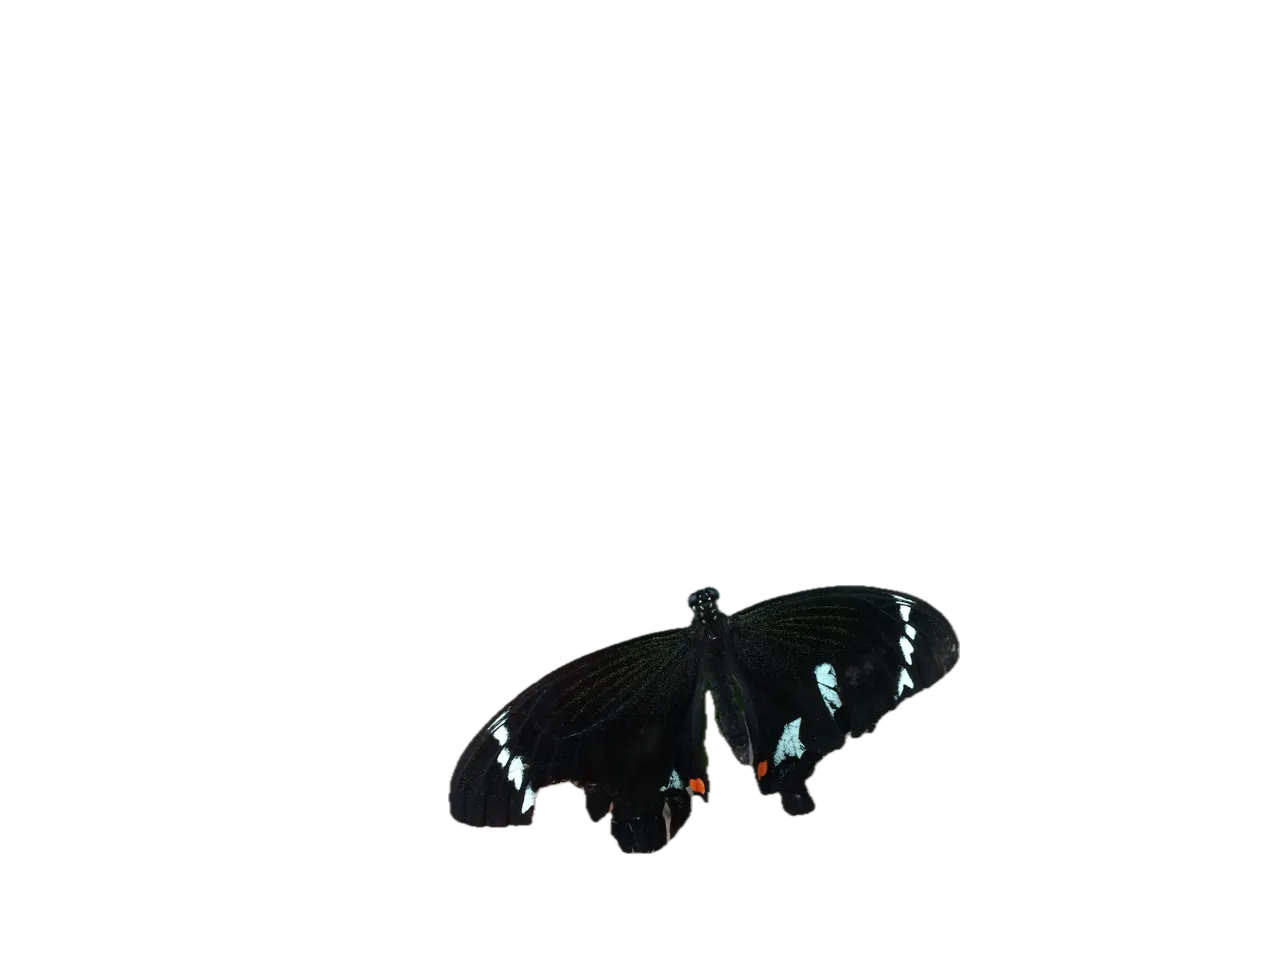
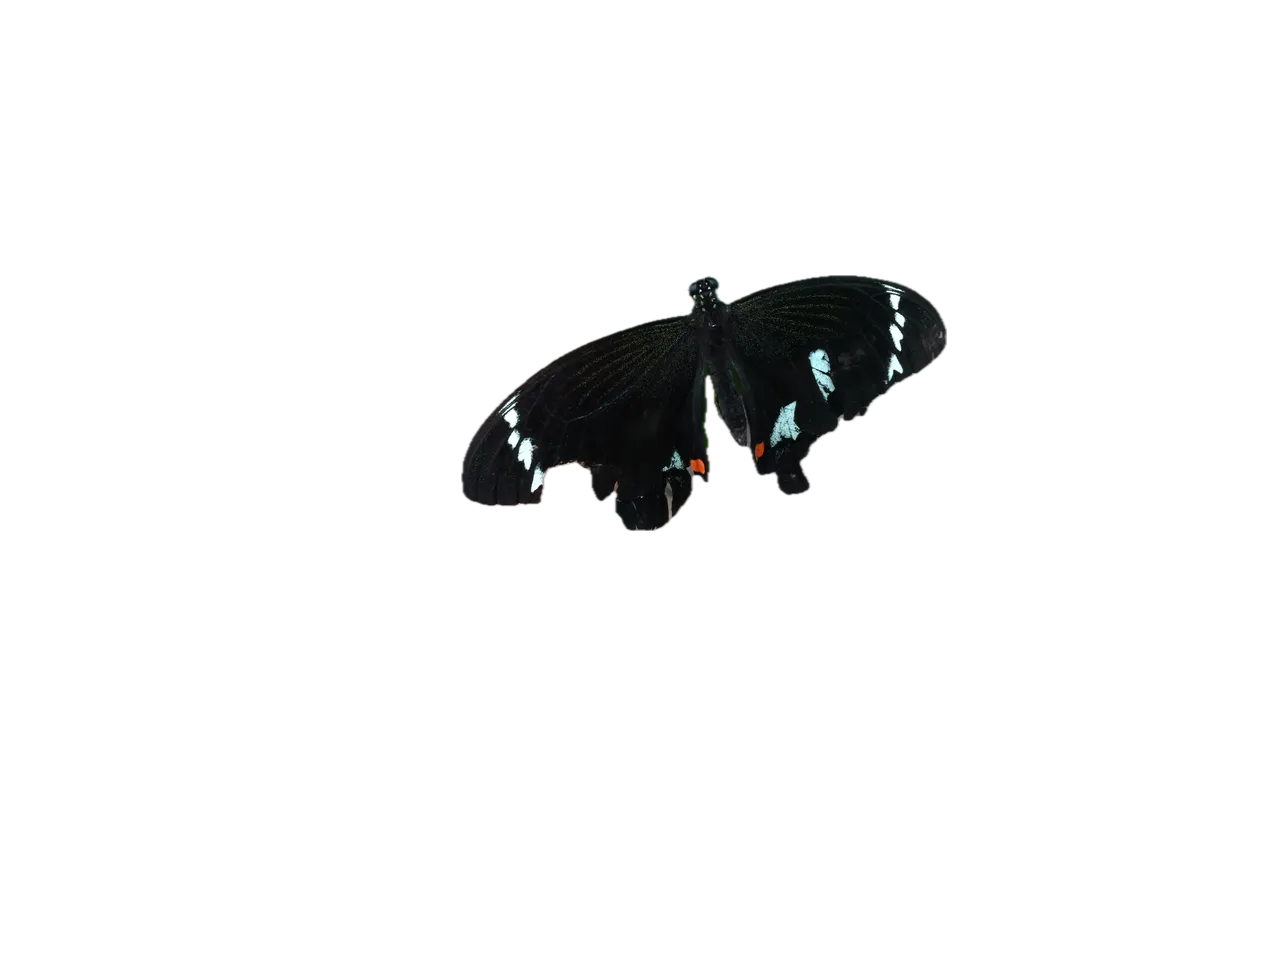
Alpha-traced lasso selections for collage, reorder + reposition
- Sign: overlaps sel-6 carryover, right-center area
- Microscope: top-left with gap
- Butterfly: right of microscope, overlapping
- Person: bottom-left (unchanged)
- All selections traced from PNG alpha contours (16 points each)

Changed region(s): [[0.3438, 0.5938, 0.75, 0.9062], [0.3438, 0.2812, 0.75, 0.5625]]

diff --git a/lib/album-data.ts b/lib/album-data.ts
@@ -354,37 +354,85 @@ export const ALBUM_DATA: AlbumSequence = {
         {
           imageUrl: "/images/collage/sign.webp",
           points: [
-            { x: 6, y: 17 },
-            { x: 34, y: 17 },
-            { x: 34, y: 63 },
-            { x: 6, y: 63 },
+            { x: 57.2, y: 48.4 },
+            { x: 57.3, y: 40.5 },
+            { x: 59.0, y: 33.6 },
+            { x: 64.9, y: 32.2 },
+            { x: 70.9, y: 30.7 },
+            { x: 76.8, y: 29.4 },
+            { x: 77.7, y: 37.1 },
+            { x: 78.0, y: 45.0 },
+            { x: 78.3, y: 52.9 },
+            { x: 78.7, y: 60.8 },
+            { x: 73.9, y: 64.1 },
+            { x: 68.0, y: 65.0 },
+            { x: 62.0, y: 65.8 },
+            { x: 57.1, y: 64.5 },
+            { x: 57.2, y: 56.6 },
+            { x: 57.2, y: 48.5 },
           ],
         },
         {
           imageUrl: "/images/collage/microscope.webp",
           points: [
-            { x: 55, y: 17 },
-            { x: 85, y: 15 },
-            { x: 87, y: 53 },
-            { x: 53, y: 55 },
-          ],
-        },
-        {
-          imageUrl: "/images/collage/person.webp",
-          points: [
-            { x: 13, y: 58 },
-            { x: 47, y: 56 },
-            { x: 48, y: 92 },
-            { x: 12, y: 93 },
+            { x: 6.2, y: 25.5 },
+            { x: 7.0, y: 17.3 },
+            { x: 10.7, y: 9.1 },
+            { x: 16.8, y: 7.3 },
+            { x: 23.0, y: 7.3 },
+            { x: 29.2, y: 8.3 },
+            { x: 34.9, y: 14.6 },
+            { x: 37.0, y: 22.8 },
+            { x: 37.7, y: 30.6 },
+            { x: 36.6, y: 37.2 },
+            { x: 30.7, y: 42.6 },
+            { x: 24.5, y: 42.6 },
+            { x: 18.3, y: 42.6 },
+            { x: 12.2, y: 41.7 },
+            { x: 7.5, y: 34.0 },
+            { x: 6.2, y: 25.6 },
           ],
         },
         {
           imageUrl: "/images/collage/butterfly.webp",
           points: [
-            { x: 36, y: 61 },
-            { x: 74, y: 59 },
-            { x: 75, y: 88 },
-            { x: 35, y: 90 },
+            { x: 39.2, y: 41.9 },
+            { x: 46.5, y: 35.5 },
+            { x: 53.8, y: 32.9 },
+            { x: 55.0, y: 40.2 },
+            { x: 62.1, y: 29.4 },
+            { x: 68.7, y: 29.3 },
+            { x: 73.8, y: 35.2 },
+            { x: 67.8, y: 42.2 },
+            { x: 62.8, y: 47.5 },
+            { x: 58.8, y: 47.3 },
+            { x: 55.0, y: 44.9 },
+            { x: 52.9, y: 53.1 },
+            { x: 47.7, y: 51.4 },
+            { x: 45.5, y: 48.4 },
+            { x: 36.6, y: 51.8 },
+            { x: 39.1, y: 42.0 },
+          ],
+        },
+        {
+          imageUrl: "/images/collage/person.webp",
+          points: [
+            { x: 13.0, y: 78.0 },
+            { x: 13.1, y: 72.8 },
+            { x: 26.7, y: 66.1 },
+            { x: 32.3, y: 59.5 },
+            { x: 39.0, y: 60.5 },
+            { x: 43.2, y: 63.1 },
+            { x: 38.6, y: 72.7 },
+            { x: 39.3, y: 76.7 },
+            { x: 45.5, y: 83.2 },
+            { x: 41.6, y: 86.0 },
+            { x: 38.7, y: 88.8 },
+            { x: 33.6, y: 87.7 },
+            { x: 29.5, y: 86.7 },
+            { x: 22.8, y: 91.5 },
+            { x: 12.0, y: 89.1 },
+            { x: 13.0, y: 78.1 },
           ],
         },
       ],
